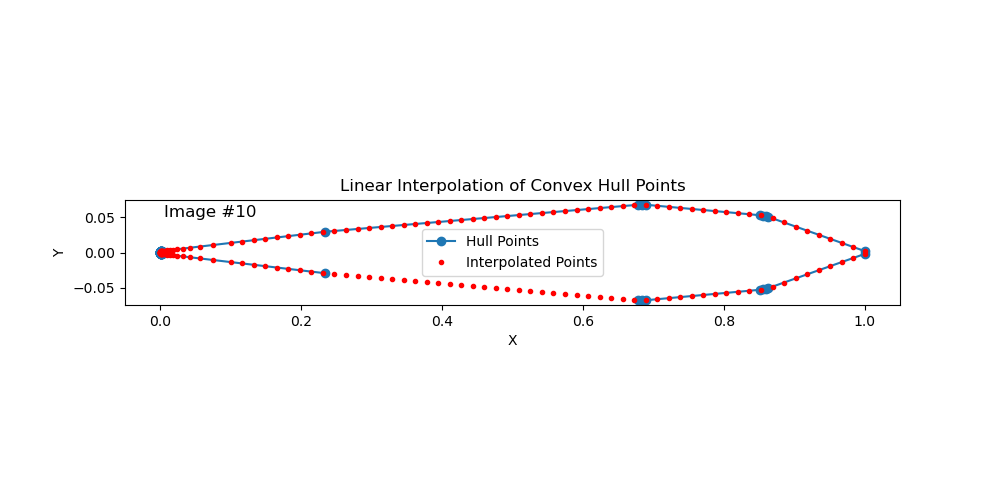
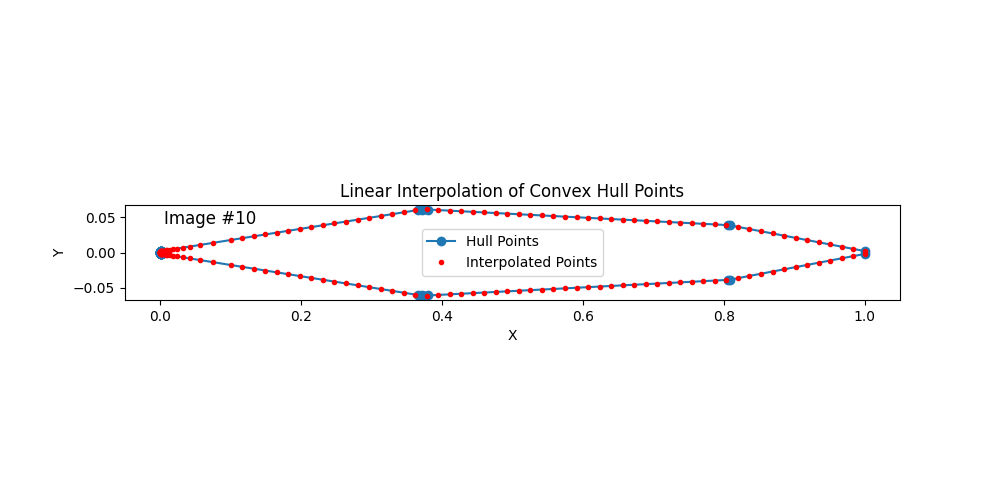
add SDF

diff --git a/AirfoilEnv.py b/AirfoilEnv.py
@@ -10,6 +10,7 @@ from matplotlib.figure import Figure
 from PIL import Image
 from torchvision import transforms
 import torch
+import cv2
 
 
 class CustomAirfoilEnv:
@@ -42,8 +43,8 @@ class CustomAirfoilEnv:
         self.circles.append(((action[0], 0), action[1]))  # add circle with x, r
         points, state = self.get_airfoil(self.circles, t=t)
         self.xfoil.airfoil = Airfoil(points[:, 0], points[:, 1])
-        cl, cd, cm, cp = self.xfoil.a(5)  # angle of attack is 5 degrees
-        reward = cl
+        cl, cd, cm, cp = self.xfoil.a(2)  # angle of attack is 5 degrees
+        reward = cl * 100  # reward is lift coefficient
 
         if reward == 0 or np.isnan(reward):
             reward = -1
@@ -123,6 +124,7 @@ class CustomAirfoilEnv:
         plt.title("Linear Interpolation of Convex Hull Points")
         plt.savefig("airfoil.png")
 
+        # Cubic Spline을 사용하여 보간된 점을 연결
         cs_upper = CubicSpline(
             np.concatenate(([0], np.flip(interpolated_points[0, : self.num_points]))),
             np.concatenate(([0], np.flip(interpolated_points[1, : self.num_points]))),
@@ -134,12 +136,12 @@ class CustomAirfoilEnv:
         x_fine_upper = np.linspace(0, 1, 10000)
         x_fine_lower = np.linspace(0, 1, 10000)
 
-        # 그래프 그리기
         fig = Figure(figsize=(10, 5))
         canvas = FigureCanvas(fig)
         ax = fig.add_subplot(111)
         ax.plot(x_fine_upper, cs_upper(x_fine_upper), color="black")
         ax.plot(x_fine_lower, cs_lower(x_fine_lower), color="black")
+        ax.fill_between(x_fine_upper, cs_upper(x_fine_upper), cs_lower(x_fine_lower), color="black") 
         ax.axis("off")
         ax.axis("equal")
 
@@ -149,10 +151,41 @@ class CustomAirfoilEnv:
         buf.seek(0)
 
         image = Image.open(buf).convert("L")
-        tensor = 1 - transforms.ToTensor()(image)
-        buf.close()
+        image.save("airfoil_image.png")
+        _, binary_img = cv2.threshold(np.array(image), 127, 255, cv2.THRESH_BINARY) # 이진 이미지로 변환
+        dist_outside = cv2.distanceTransform(255 - binary_img, cv2.DIST_L2, 5)  
+        dist_inside = cv2.distanceTransform(binary_img, cv2.DIST_L2, 5)
+        sdf = dist_inside - dist_outside
+        sdf = sdf / np.max(np.abs(sdf))
 
-        return interpolated_points.T, tensor
+        return interpolated_points.T, torch.tensor(sdf).unsqueeze(0).float()
+
+    def compute_sdf(tensor):
+        """
+        주어진 텐서를 사용하여 나머지 공간을 채우는 SDF를 계산합니다.
+        
+        :param tensor: 에어포일 곡선의 정보를 담은 텐서
+        :param resolution: 출력 SDF의 해상도 (width, height)
+        :return: SDF 값을 담은 2D 배열
+        """
+        width, height = tensor.shape[2], tensor.shape[1]
+        # 텐서에서 좌표를 추출 (여기서는 tensor가 0과 1로 구성된 이진 이미지라고 가정)
+        y_indices, x_indices = torch.where(tensor[0] > 0.5)  # 0.5 이상을 에어포일 곡선으로 가정
+        points = torch.stack((x_indices.float(), y_indices.float()), dim=1)
+        
+        # 출력 SDF 초기화
+        sdf = torch.full((width, height), float('inf'))
+        
+        # 각 점에 대해 에어포일 곡선까지의 최단 거리 계산
+        for y in range(width):
+            for x in range(height):
+                min_dist = torch.min(torch.norm(points - torch.tensor([x, y]), dim=1))
+                sdf[y, x] = min_dist
+        
+        # 여기서 추가적으로, 곡선 내부와 외부를 구분하여 내부는 음수로 설정할 수 있습니다.
+        # 이를 위해선 추가적인 내부/외부 판별 로직이 필요합니다.
+        
+        return sdf.numpy()
 
     def interpolate_linear_functions(self, hull_points):
         """

diff --git a/model/model.py b/model/model.py
@@ -6,16 +6,12 @@ import torch.nn.functional as F
 class AirfoilCNN(nn.Module):
     def __init__(self):
         super(AirfoilCNN, self).__init__()
-        self.conv1 = nn.Conv2d(
-            1, 16, kernel_size=5, stride=2, padding=2
-        )  # receptive field: 5x5
-        self.conv2 = nn.Conv2d(
-            16, 32, kernel_size=5, stride=2, padding=2
-        )  # receptive field: 9x9
-        self.conv3 = nn.Conv2d(
-            32, 64, kernel_size=3, stride=2, padding=1
-        )  # receptive field: 17x17
-        self.fc = nn.Linear(64 * 32 * 63, 64)
+        self.conv1 = nn.Conv2d(1, 16, kernel_size=7, stride=2, padding=3)  # receptive field: 7x7
+        self.conv2 = nn.Conv2d(16, 32, kernel_size=7, stride=2, padding=3) # receptive field: 17x17
+        self.conv3 = nn.Conv2d(32, 64, kernel_size=5, stride=2, padding=2) # receptive field: 29x29
+        self.conv4 = nn.Conv2d(64, 128, kernel_size=5, stride=2, padding=2) # receptive field: 45x45
+        self.fc1 = nn.Linear(128 * 16 * 32, 128)  # 최종 컨볼루션 레이어의 출력 크기를 바탕으로 계산된 값
+        self.fc2 = nn.Linear(128, 64)  # 추가적인 FC 레이어
 
     def forward(self, x):
         if len(x.shape) == 3:
@@ -23,8 +19,10 @@ class AirfoilCNN(nn.Module):
         x = F.relu(self.conv1(x))
         x = F.relu(self.conv2(x))
         x = F.relu(self.conv3(x))
+        x = F.relu(self.conv4(x))
         x = x.view(x.size(0), -1)
-        x = F.relu(self.fc(x))
+        x = F.relu(self.fc1(x))
+        x = F.relu(self.fc2(x))
         return x
 
 

diff --git a/train.py b/train.py
@@ -15,6 +15,7 @@ class Train:
         num_points,
         epsilon,
         horizon,
+        beta=0.01,
     ):
         self.env = env
         self.env_name = env_name
@@ -28,6 +29,7 @@ class Train:
         self.start_time = 0
         self.state = None  # Image Tensor
         self.running_reward = 0
+        self.beta = beta
         self.steps_history = []
         self.rewards_history = []
         self.actor_loss_history = []
@@ -78,7 +80,8 @@ class Train:
 
                 actor_loss = self.compute_actor_loss(ratio, adv)
 
-                # entropy_loss = new_dist.entropy().mean()
+                entropy_loss = new_dist.entropy().mean()
+                actor_loss -= self.beta * entropy_loss
 
                 total_actor_loss += actor_loss.item()
                 total_critic_loss += critic_loss.item()

diff --git a/main.py b/main.py
@@ -9,8 +9,8 @@ num_points = 80
 epochs = 10
 
 T = 10
-clip_range = 0.2
-beta = 0.01  # 엔트로피 항에 대한 가중치
+clip_range = 0.1
+beta = 0.1  # 엔트로피 항에 대한 가중치
 mini_batch_size = 10
 batch_size = 16
 processes = batch_size
@@ -29,6 +29,7 @@ if __name__ == "__main__":
         epochs=epochs,
         mini_batch_size=mini_batch_size,
         num_points=num_points,
+        beta=beta,
         epsilon=clip_range,
     )
     trainer.step()

diff --git a/model/agent.py b/model/agent.py
@@ -55,8 +55,8 @@ class Agent(nn.Module):
         actions = nn.Sigmoid()(actions)
         scaled_actions = torch.zeros_like(actions)
         a = 0.1
-        # x 값을 0.2~0.8로 스케일링
-        scaled_actions[0][0] = actions[0][0] * (1 - 2 * a) + a
+        # x 값을 0 ~ 0.8로 스케일링
+        scaled_actions[0][0] = actions[0][0] * (1 - a)
         # r 값을 0~0.2로 스케일링
         scaled_actions[0][1] = actions[0][1] * a
 
